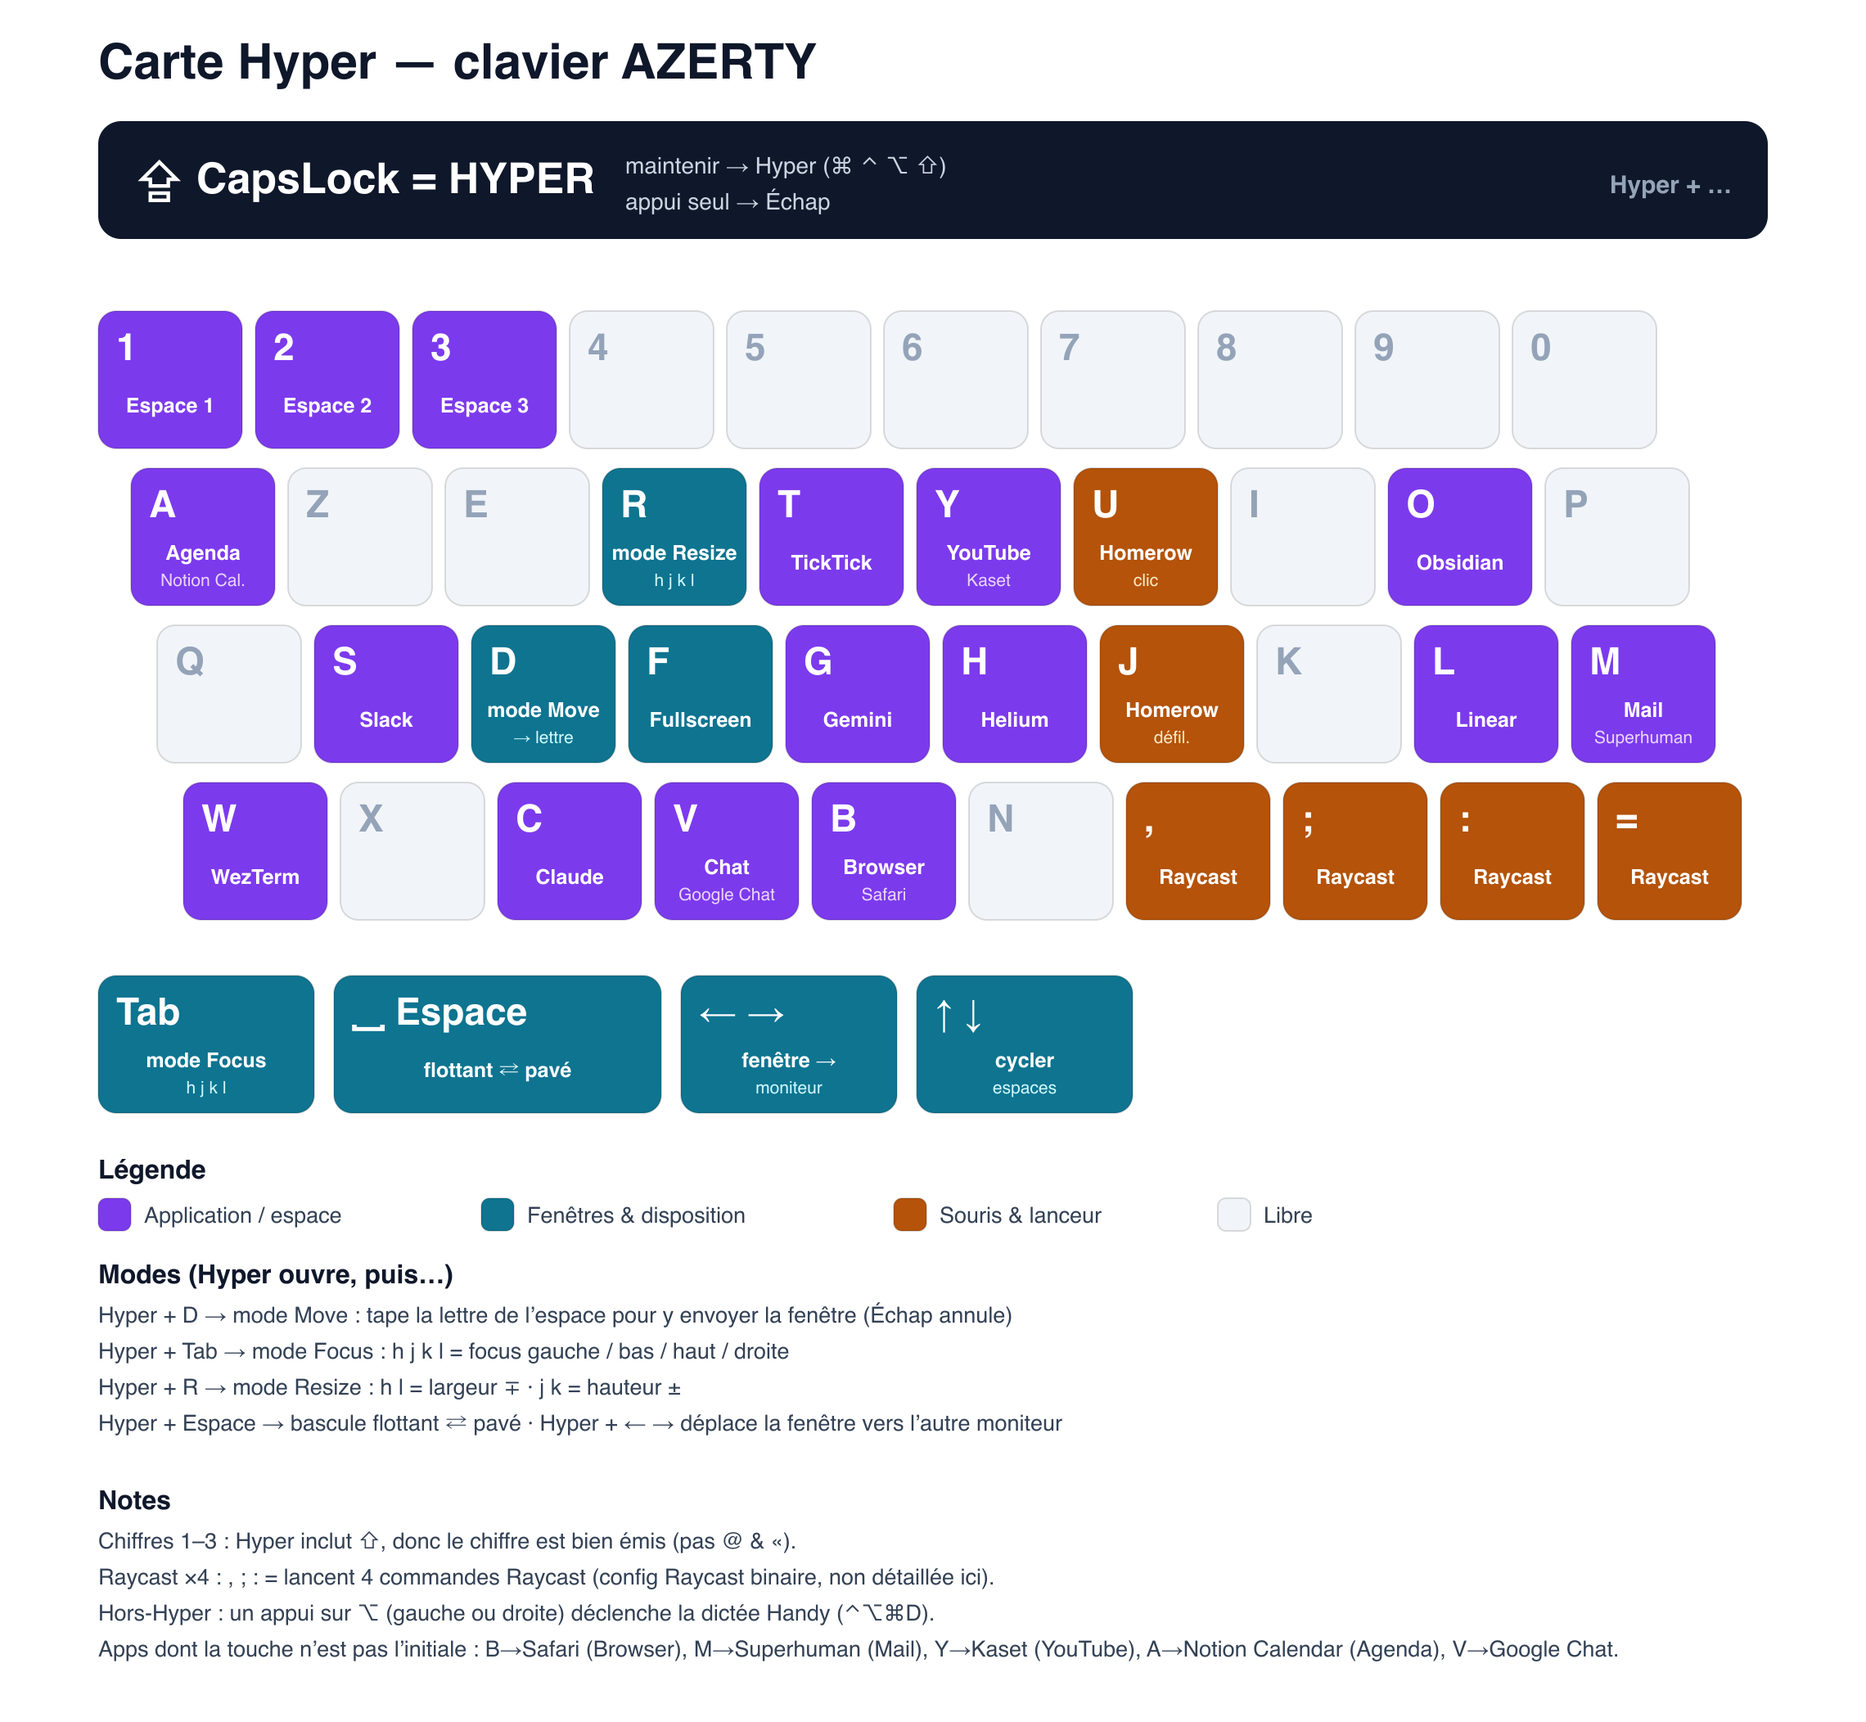
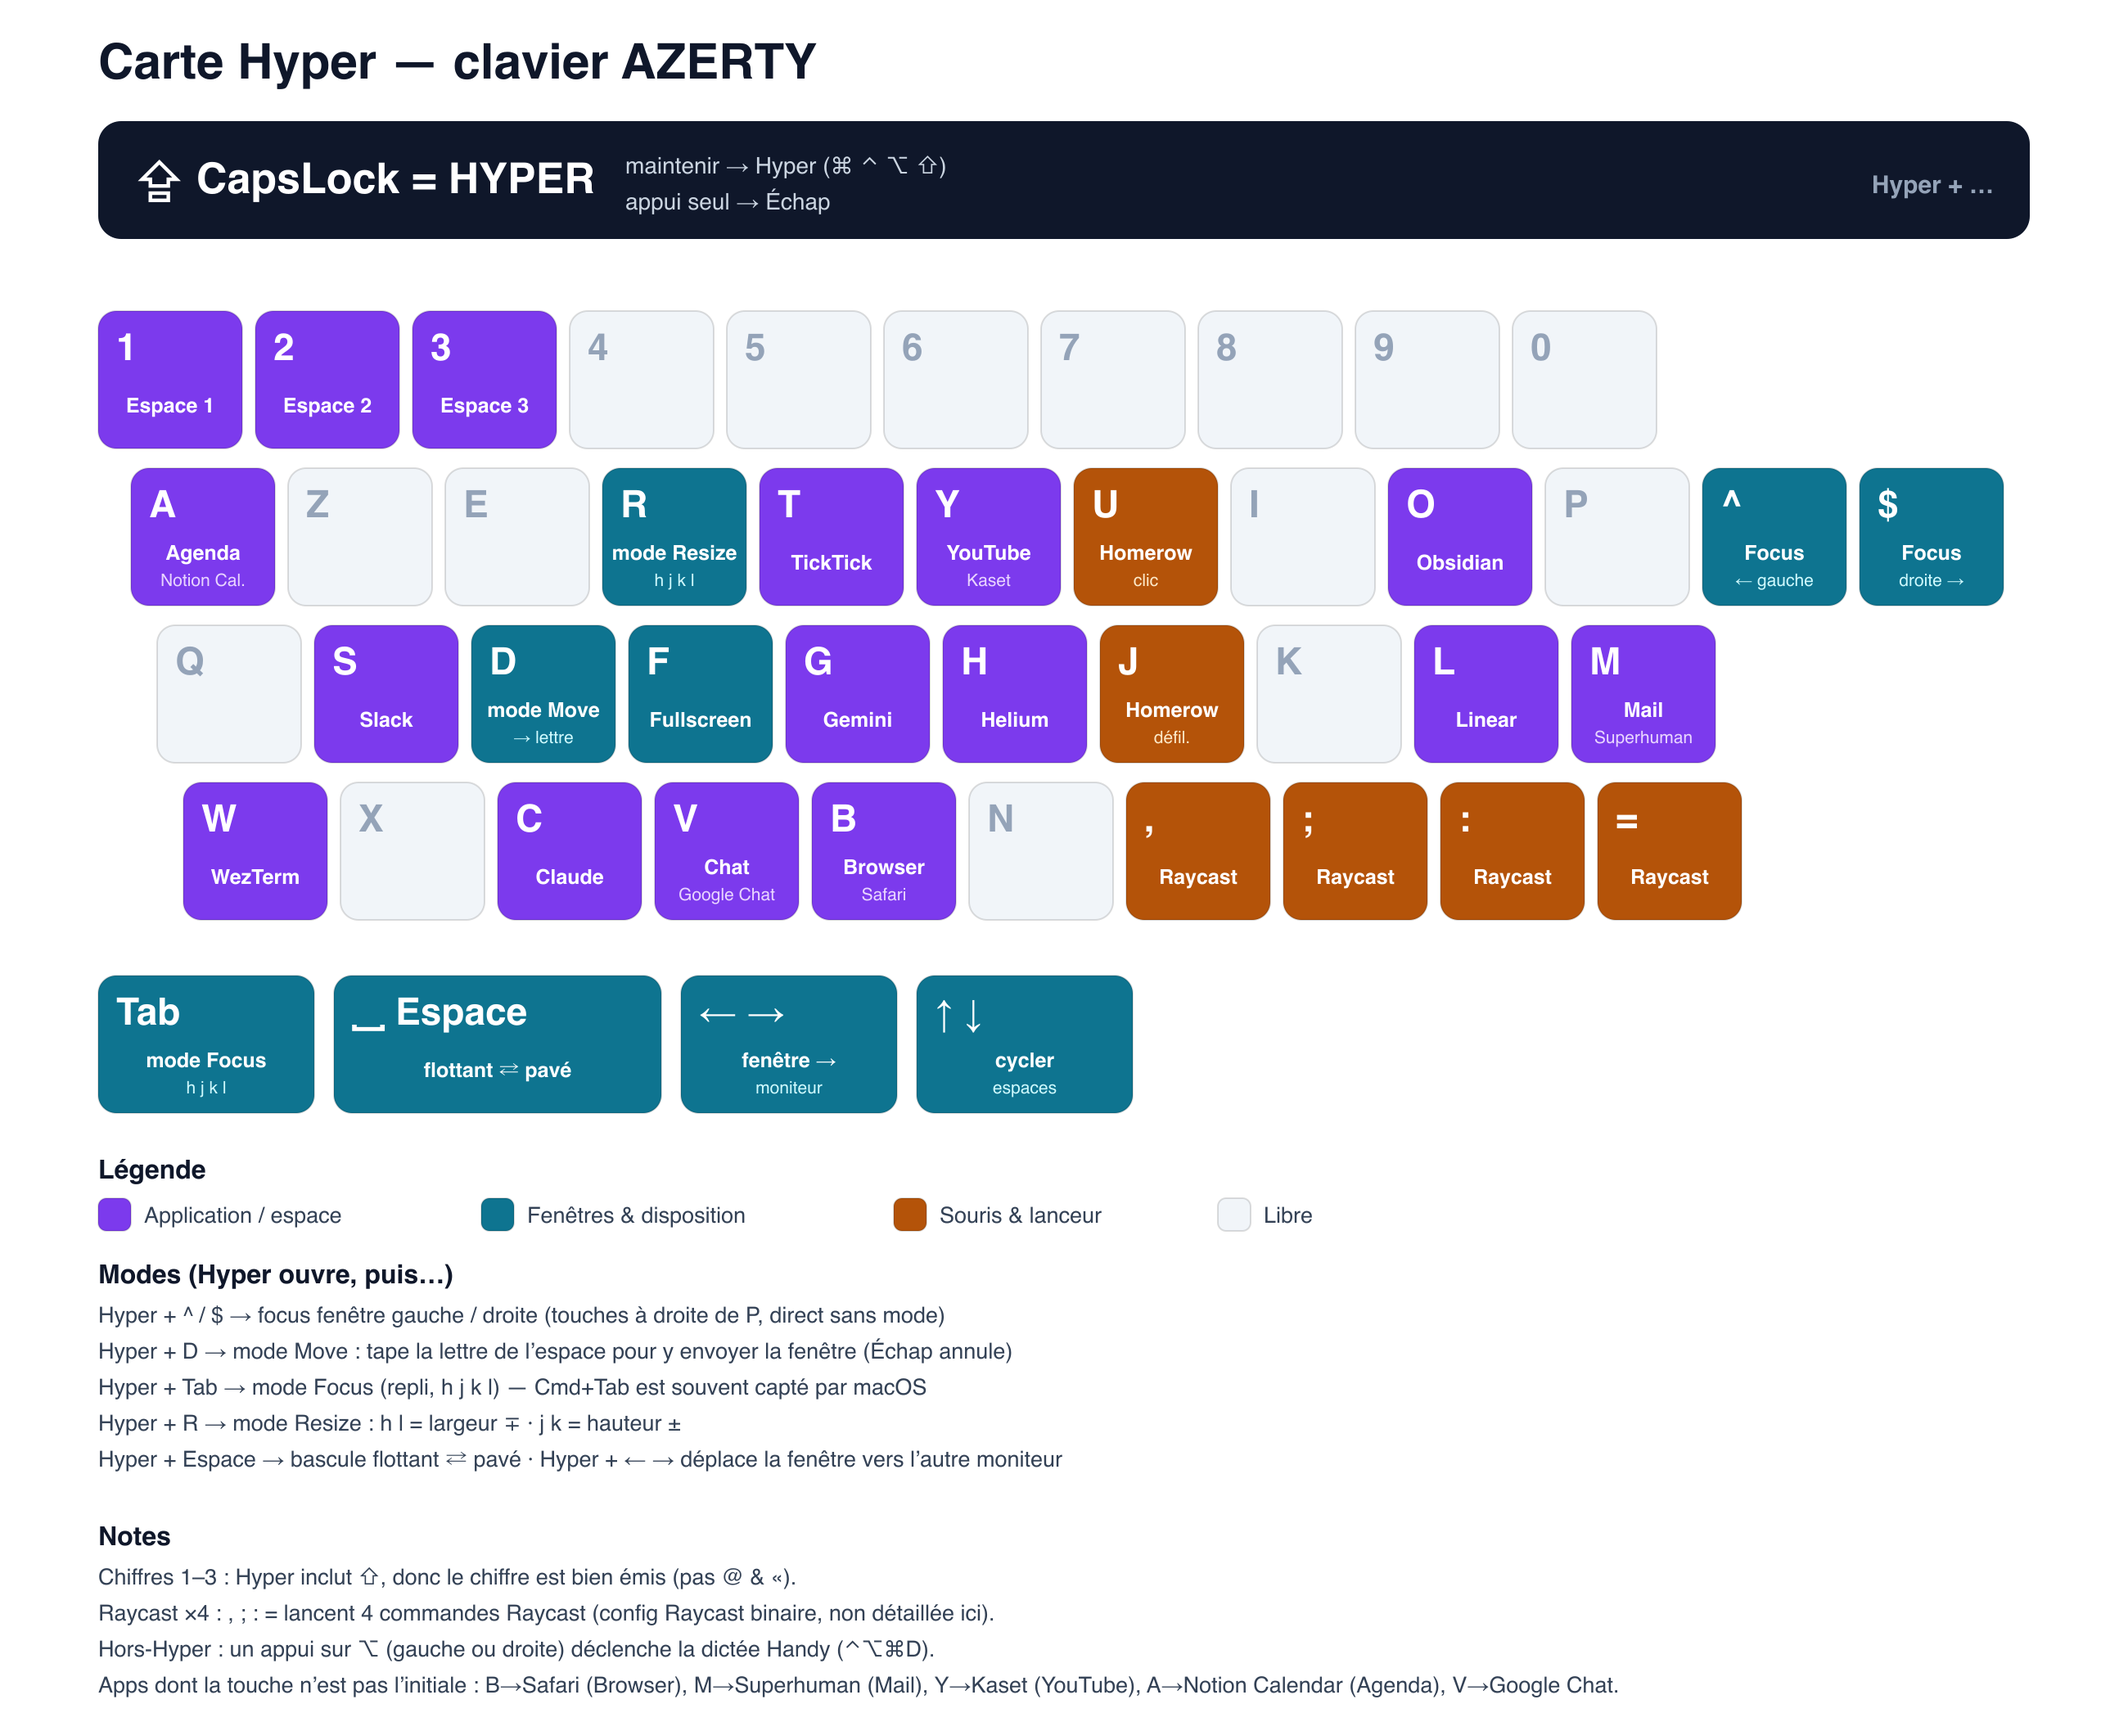
aerospace: direct left/right window focus on ^ and $ keys
Cmd+Tab is swallowed by macOS so the focus-mode entry never fired.
Add direct hyper+^ / hyper+$ bindings (keys right of P on AZERTY)
for focus left/right, keeping the Tab focus-mode as a fallback.
Update shortcuts.md and regenerate the hyper keyboard map.

diff --git a/docs/gen-hyper-map.py b/docs/gen-hyper-map.py
@@ -24,6 +24,7 @@ AZERTY = [
     ("R", "win", "mode Resize", "h j k l"), ("T", "app", "TickTick", ""),
     ("Y", "app", "YouTube", "Kaset"), ("U", "sys", "Homerow", "clic"),
     ("I", "none", "", ""), ("O", "app", "Obsidian", ""), ("P", "none", "", ""),
+    ("^", "win", "Focus", "← gauche"), ("$", "win", "Focus", "droite →"),
 ]
 QSDF = [
     ("Q", "none", "", ""), ("S", "app", "Slack", ""), ("D", "win", "mode Move", "→ lettre"),
@@ -77,7 +78,7 @@ def row(keys, ry, off):
         key(x, ry, cap, cat, l1, l2)
         x += PITCH
 
-W = 1140
+W = 1300
 H = 1052
 
 add(f'<svg xmlns="http://www.w3.org/2000/svg" width="{W}" height="{H}" '
@@ -129,8 +130,9 @@ for cat, lbl in legend:
 my = PY + 64
 add(f'<text x="{LEFT}" y="{my}" font-size="16" font-weight="700" fill="#0f172a">Modes (Hyper ouvre, puis…)</text>')
 modes = [
+    "Hyper + ^ / $  →  focus fenêtre gauche / droite (touches à droite de P, direct sans mode)",
     "Hyper + D  →  mode Move : tape la lettre de l’espace pour y envoyer la fenêtre (Échap annule)",
-    "Hyper + Tab  →  mode Focus : h j k l = focus gauche / bas / haut / droite",
+    "Hyper + Tab  →  mode Focus (repli, h j k l) — Cmd+Tab est souvent capté par macOS",
     "Hyper + R  →  mode Resize : h l = largeur ∓ · j k = hauteur ± ",
     "Hyper + Espace  →  bascule flottant ⇄ pavé · Hyper + ← →  déplace la fenêtre vers l’autre moniteur",
 ]

diff --git a/shortcuts.md b/shortcuts.md
@@ -20,7 +20,8 @@
 ### Navigation fenêtres
 | Raccourci | Action |
 |---|---|
-| Hyper+Tab | Mode focus (puis H/J/K/L, Esc pour quitter) |
+| Hyper+^ / $ | Focus fenêtre gauche / droite (touches à droite de P) |
+| Hyper+Tab | Mode focus (puis H/J/K/L, Esc) — *repli, capté par macOS Cmd+Tab* |
 | Hyper+← / → | Déplacer fenêtre vers moniteur gauche/droit |
 
 ### Layout
